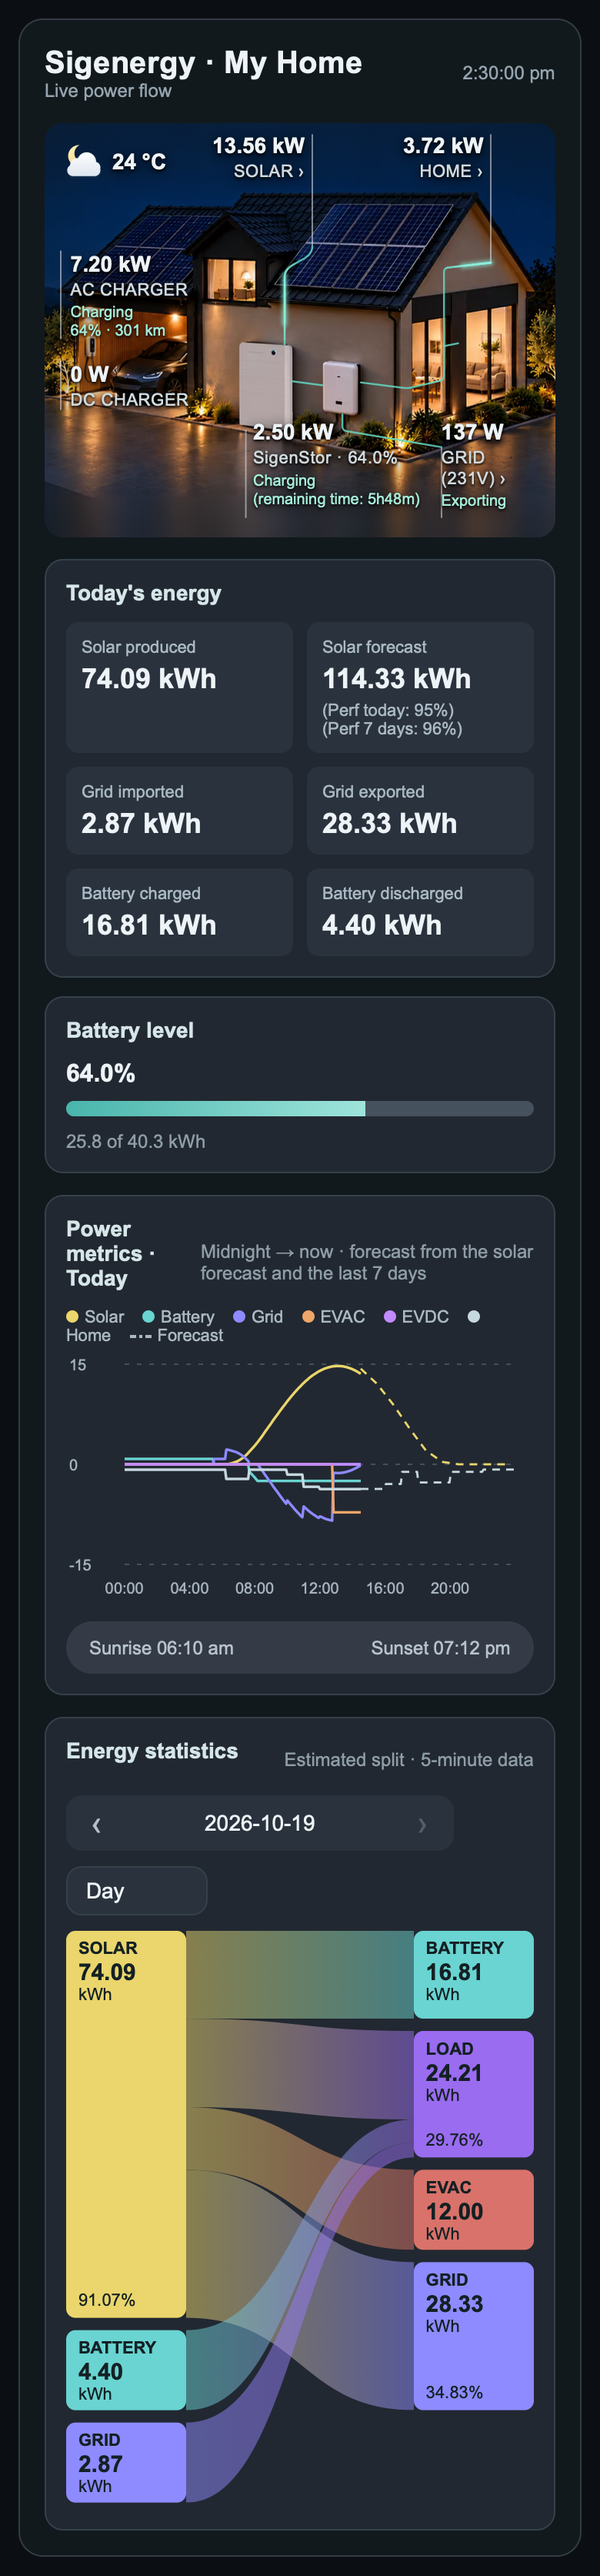
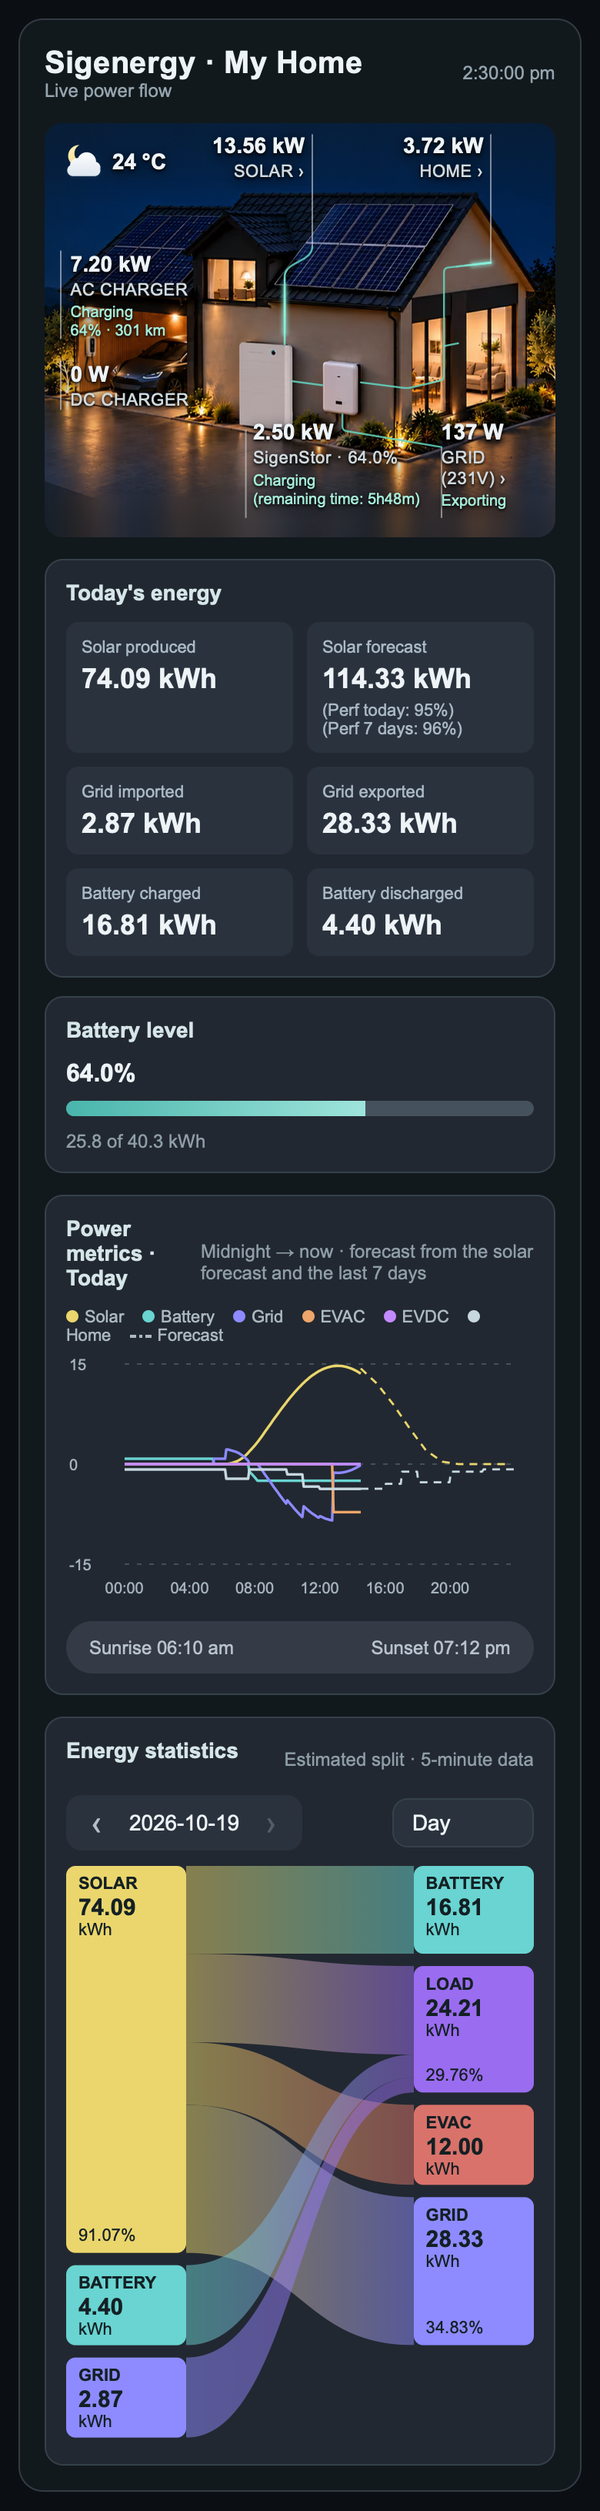
Keep the Energy statistics date and range on one line on phones
The date label in Energy statistics had a fixed minimum width of 170 px, so the ‹ › arrows wouldn't move when switching ranges. With the arrows, the date box needed about 252 px, and the Day picker about 92 px more. On a phone the stat bar is only about 290–345 px wide, so the picker always dropped to a second line.

Now, when the stat panel is narrower than 360 px, the date label loses that minimum width and shrinks to fit the date. Also stop the date breaking at a hyphen, because once the label could shrink, WebKit split it as "2026-10-" / "19".

Refreshed the four phone screenshots that showed the stat bar on two lines.

diff --git a/sigenergy-flow-card.js b/sigenergy-flow-card.js
@@ -552,8 +552,8 @@ class SigenergyFlowCard extends HTMLElement {
       .stat>small:first-child{grid-row:2}.stat>b{grid-row:3}#forecastPerf{grid-row:4}
       .link{all:unset;box-sizing:border-box;display:block;width:100%;cursor:pointer;border-radius:6px}.link:hover{filter:brightness(1.2)}.link:focus-visible{outline:2px solid #71d3d1}
       .socbar{height:10px;background:var(--bar);border-radius:8px;overflow:hidden;margin:9px 0}.socfill{height:100%;background:var(--bar-fill);width:0%;transition:width .5s}
-      .statpanel{margin-top:14px}.statbar{display:flex;flex-wrap:wrap;gap:10px;align-items:center;justify-content:space-between;margin:10px 0}
-      .statnav{display:flex;align-items:center;gap:4px;background:var(--tile);border-radius:10px;padding:3px}.statnav span{min-width:170px;text-align:center;font-size:14px;font-variant-numeric:tabular-nums}
+      .statpanel{margin-top:14px;container-type:inline-size}.statbar{display:flex;flex-wrap:wrap;gap:10px;align-items:center;justify-content:space-between;margin:10px 0}
+      .statnav{display:flex;align-items:center;gap:4px;background:var(--tile);border-radius:10px;padding:3px}.statnav span{min-width:170px;white-space:nowrap;text-align:center;font-size:14px;font-variant-numeric:tabular-nums}
       .statnav button{all:unset;cursor:pointer;width:34px;height:30px;text-align:center;font-size:20px;line-height:30px;border-radius:8px;color:var(--icon)}.statnav button:hover{background:var(--tile-hover)}.statnav button[disabled]{opacity:.3;cursor:default}.statnav button:focus-visible,.statrange:focus-visible{outline:2px solid #71d3d1}
       .statrange{appearance:none;-webkit-appearance:none;background:var(--tile);color:var(--fg);border:1px solid var(--panel-line);border-radius:10px;padding:7px 28px 7px 12px;font:inherit;font-size:14px;cursor:pointer}
       #statChart{width:100%;display:block}.skn{cursor:pointer;transition:opacity .2s}.skn:focus-visible{outline:none}.skn:focus-visible rect.skbox{stroke:#71d3d1;stroke-width:2}.skr{opacity:.5;transition:opacity .2s}.skr.on{opacity:.8}.skr.dim{opacity:.1}.skn.dim{opacity:.3}
@@ -596,6 +596,7 @@ class SigenergyFlowCard extends HTMLElement {
       .home-total{display:flex;justify-content:space-between;align-items:baseline;font-size:14px;color:var(--icon)}.home-total b{font-size:22px;color:var(--fg)}
       .frame{container-type:inline-size}
       @container (max-width:800px){.layout{grid-template-columns:1fr}}
+      @container (max-width:360px){.statnav span{min-width:0}}
     </style>
     <ha-card><div class="header"><div><div class="heading" id="heading"></div><div class="sub">Live power flow</div></div><div class="sub" id="stamp"></div></div>
       <div class="frame"><div class="layout"><section class="scene" id="scene"><div class="plane" id="plane">
